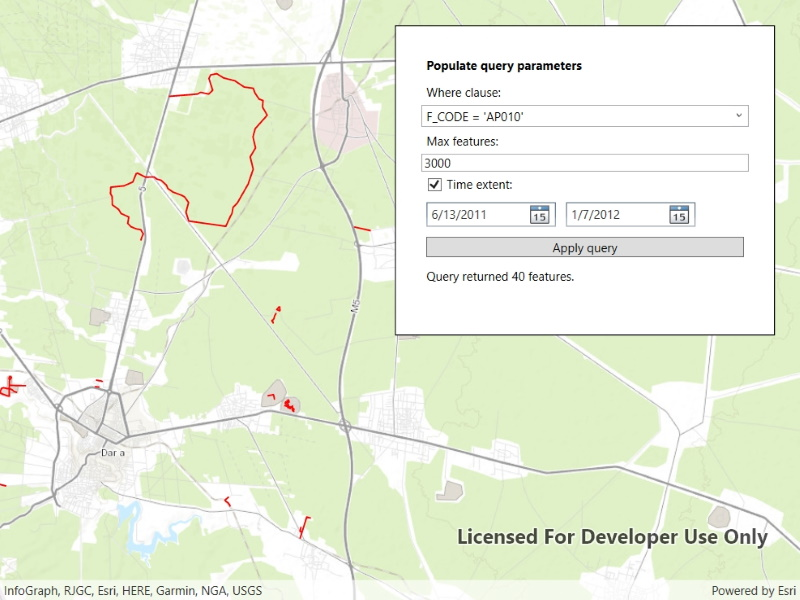
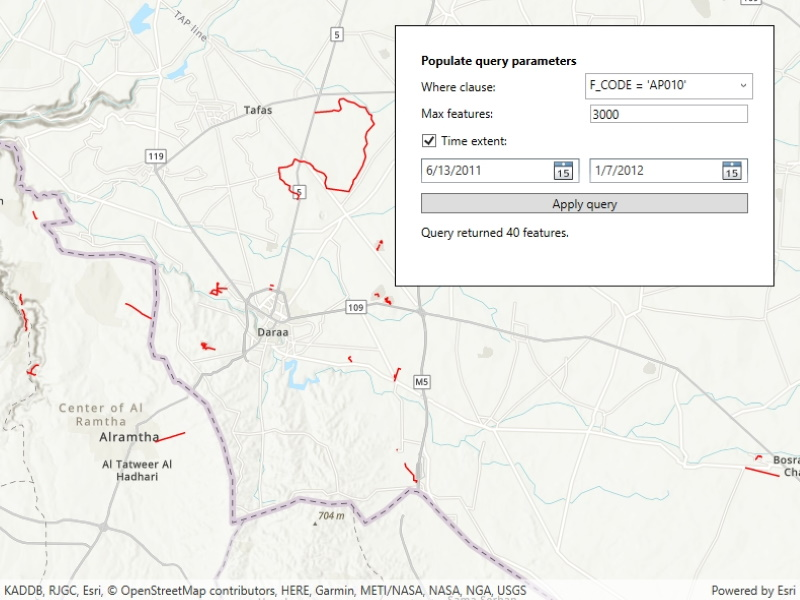
Updated desktop screenshots

diff --git a/src/WPF/ArcGISRuntime.WPF.Viewer/Samples/Layers/QueryCQLFilters/QueryCQLFilters.xaml b/src/WPF/ArcGISRuntime.WPF.Viewer/Samples/Layers/QueryCQLFilters/QueryCQLFilters.xaml
@@ -3,7 +3,7 @@
              xmlns:x="http://schemas.microsoft.com/winfx/2006/xaml"
              xmlns:esri="http://schemas.esri.com/arcgis/runtime/2013">
     <Grid>
-        <esri:MapView x:Name="MyMapView" Margin="5" />
+        <esri:MapView x:Name="MyMapView" />
         <Border Style="{StaticResource BorderStyle}">
             <Grid>
                 <Grid.RowDefinitions>

diff --git a/src/UWP/ArcGISRuntime.UWP.Viewer/Samples/Layers/QueryCQLFilters/QueryCQLFilters.xaml b/src/UWP/ArcGISRuntime.UWP.Viewer/Samples/Layers/QueryCQLFilters/QueryCQLFilters.xaml
@@ -3,7 +3,7 @@
              xmlns:x="http://schemas.microsoft.com/winfx/2006/xaml"
              xmlns:esriUI="using:Esri.ArcGISRuntime.UI.Controls">
     <Grid>
-        <esriUI:MapView x:Name="MyMapView" Margin="5" />
+        <esriUI:MapView x:Name="MyMapView" />
         <Border Style="{StaticResource BorderStyle}">
             <Grid>
                 <Grid.RowDefinitions>
